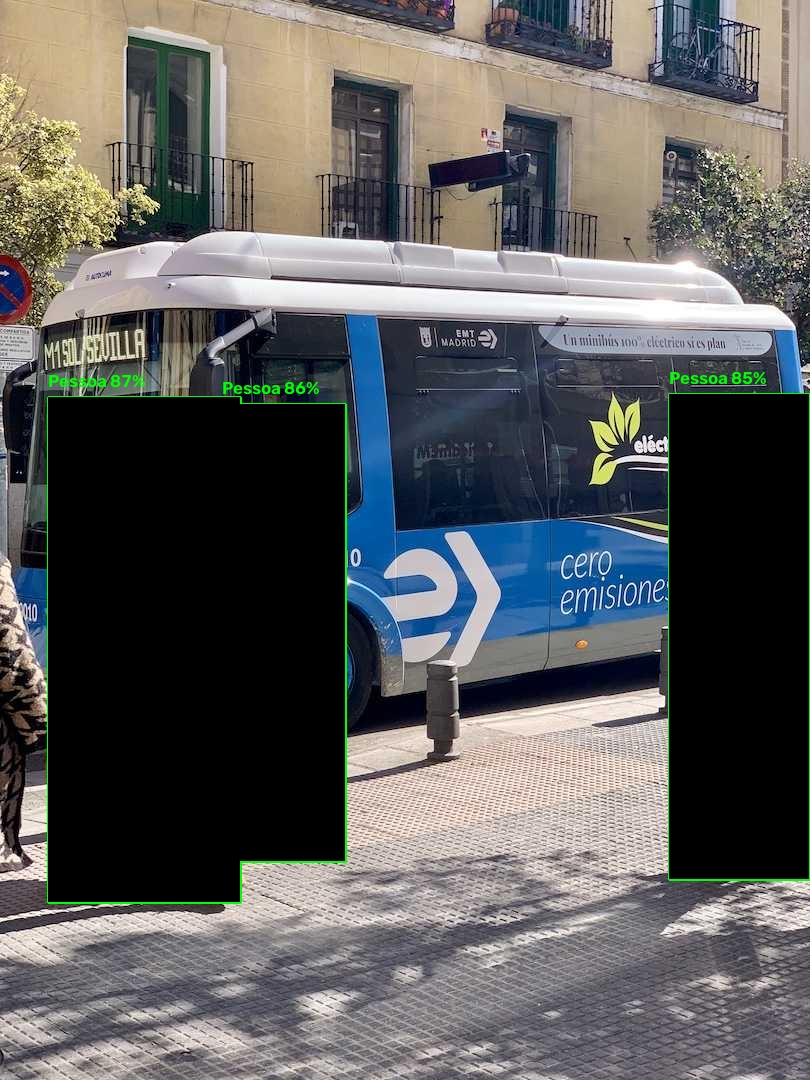
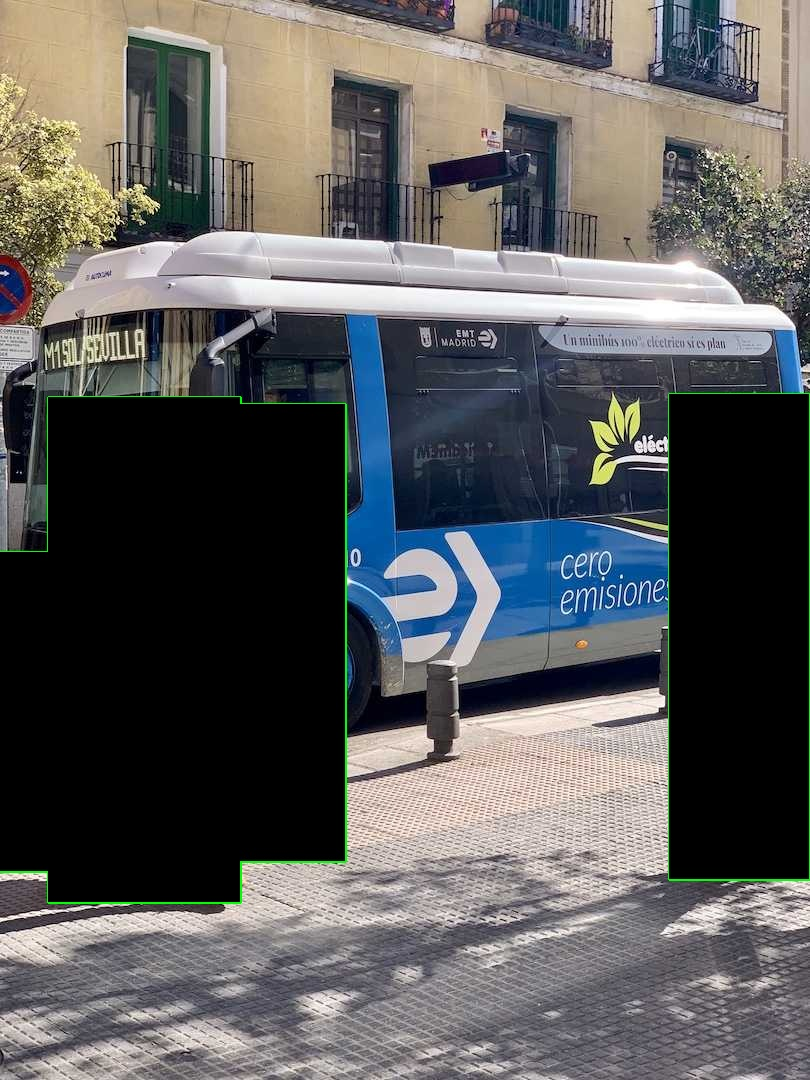
Adicionando o OpenCV 1.0

diff --git a/main.py b/main.py
@@ -1,6 +1,18 @@
 
 from ultralytics import YOLO
 import cv2
+import numpy as np
+
+# ==============================
+# CONFIGURAÇÕES
+# ==============================
+
+LIMIAR_BRILHO = 220
+AREA_MINIMA = 10
+
+# ==============================
+# CARREGAR MODELO E IMAGEM
+# ==============================
 
 modelo = YOLO("yolo26n.pt")
 resultados = modelo("bus.jpg")
@@ -8,58 +20,153 @@ resultados = modelo("bus.jpg")
 for resultado in resultados:
 
     imagem = resultado.orig_img.copy()
+    visualizacao = imagem.copy()
 
-    print("Dimensões originais:", resultado.orig_shape)
-    print("Formato da imagem:", imagem.shape)
+    altura, largura = imagem.shape[:2]
+
+    # Cria máscara inicialmente branca
+    mascara = np.full(
+        (altura, largura),
+        255,
+        dtype=np.uint8
+    )
 
     pessoas = []
 
-    # Máscara branca inicial
-    altura, largura = imagem.shape[:2]
-    mascara = 255 * (imagem[:, :, 0] * 0 + 1)
-    mascara = mascara.astype("uint8")
+    # ==============================
+    # IDENTIFICAR PESSOAS
+    # ==============================
 
     for objeto in resultado.boxes:
 
         classe = int(objeto.cls[0])
-        confianca = float(objeto.conf[0])
         nome = modelo.names[classe]
-
-        x1, y1, x2, y2 = map(
-            int, objeto.xyxy[0].tolist()
-        )
+        confianca = float(objeto.conf[0])
 
         if nome == "person":
 
-            pessoas.append((x1, y1, x2, y2))
+            x1, y1, x2, y2 = map(
+                int, objeto.xyxy[0].tolist()
+            )
 
-            # Impede coordenadas fora da imagem
+            # Limita coordenadas à imagem
             x1 = max(0, min(x1, largura))
             x2 = max(0, min(x2, largura))
             y1 = max(0, min(y1, altura))
             y2 = max(0, min(y2, altura))
 
-            # Apaga a região da pessoa na máscara
+            pessoas.append((x1, y1, x2, y2))
+
+            # Bloqueia a região da pessoa
             mascara[y1:y2, x1:x2] = 0
 
             cv2.rectangle(
-                imagem,
+                visualizacao,
                 (x1, y1),
                 (x2, y2),
                 (0, 255, 0),
                 2
             )
 
-    imagem_filtrada = cv2.bitwise_and(
+    # ==============================
+    # ANALISAR LUMINOSIDADE
+    # ==============================
+
+    # Converte imagem colorida para tons de cinza
+    cinza = cv2.cvtColor(
         imagem,
-        imagem,
+        cv2.COLOR_BGR2GRAY
+    )
+
+    # Seleciona pixels com brilho acima do limite
+    _, imagem_luminosa = cv2.threshold(
+        cinza,
+        LIMIAR_BRILHO,
+        255,
+        cv2.THRESH_BINARY
+    )
+
+    # Ignora regiões bloqueadas pelo YOLO
+    luminosidade_filtrada = cv2.bitwise_and(
+        imagem_luminosa,
+        imagem_luminosa,
         mask=mascara
     )
 
-    cv2.imwrite("pessoas_detectadas.jpg", imagem)
-    cv2.imwrite("mascara_pessoas.jpg", mascara)
-    cv2.imwrite("imagem_filtrada.jpg", imagem_filtrada)
+    # ==============================
+    # LOCALIZAR PONTOS LUMINOSOS
+    # ==============================
 
-    print("\nTotal de pessoas:", len(pessoas))
-    print("Máscara salva:", "mascara_pessoas.jpg")
-    print("Imagem filtrada salva:", "imagem_filtrada.jpg")
+    contornos, _ = cv2.findContours(
+        luminosidade_filtrada,
+        cv2.RETR_EXTERNAL,
+        cv2.CHAIN_APPROX_SIMPLE
+    )
+
+    quantidade_pontos = 0
+
+    for contorno in contornos:
+
+        area = cv2.contourArea(contorno)
+
+        if area < AREA_MINIMA:
+            continue
+
+        momentos = cv2.moments(contorno)
+
+        if momentos["m00"] == 0:
+            continue
+
+        centro_x = int(
+            momentos["m10"] / momentos["m00"]
+        )
+
+        centro_y = int(
+            momentos["m01"] / momentos["m00"]
+        )
+
+        quantidade_pontos += 1
+
+        # Desenha o ponto luminoso
+        cv2.circle(
+            visualizacao,
+            (centro_x, centro_y),
+            6,
+            (0, 0, 255),
+            -1
+        )
+
+        cv2.putText(
+            visualizacao,
+            f"X:{centro_x} Y:{centro_y}",
+            (centro_x + 10, centro_y),
+            cv2.FONT_HERSHEY_SIMPLEX,
+            0.5,
+            (0, 0, 255),
+            2
+        )
+
+        print(
+            f"Ponto luminoso: X={centro_x}, Y={centro_y}"
+        )
+
+    # ==============================
+    # SALVAR RESULTADOS
+    # ==============================
+
+    cv2.imwrite("mascara_pessoas.jpg", mascara)
+
+    cv2.imwrite(
+        "luminosidade_filtrada.jpg",
+        luminosidade_filtrada
+    )
+
+    cv2.imwrite(
+        "resultado_luminosidade.jpg",
+        visualizacao
+    )
+
+    print("\n========== RESULTADO ==========")
+    print("Pessoas identificadas:", len(pessoas))
+    print("Regioes luminosas encontradas:", quantidade_pontos)
+    print("Imagem processada e salva!")
